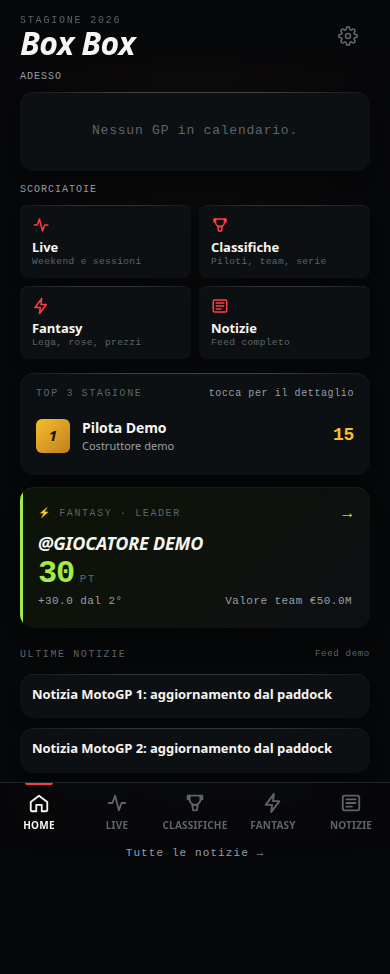
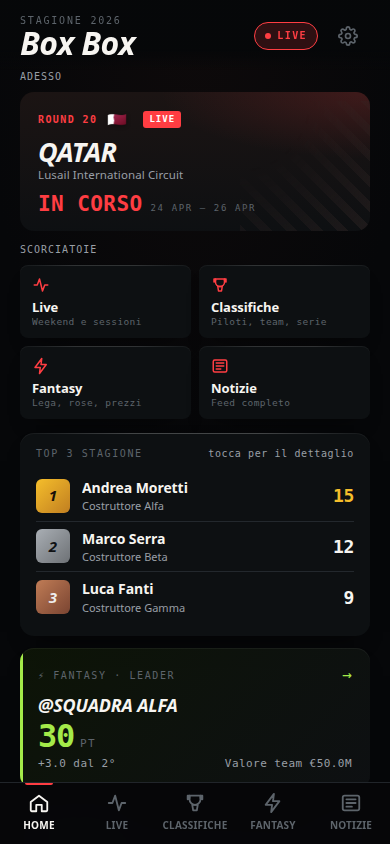
docs: anteprime con dati completi e quattro viste in piu'
Le fixture del test browser ora descrivono un weekend in corso (GP, sessioni,
tabellone), otto piloti e tre giocatori: le immagini mostrano schermate piene
invece di stati vuoti con "Nessun GP in calendario".

- cattura alla dimensione del viewport: la barra di navigazione fissa non
  finisce piu' a meta' immagine;
- aggiunte classifica e impostazioni, desktop e mobile: sedici immagini;
- nomi dei piloti e delle squadre inventati e nessun nome di giocatore reale;
- fixture delle notifiche per non fotografare lo stato "bloccate" proprio di
  Chromium headless;
- README con tre anteprime e `docs/verifiche/LEGGIMI.md` che dice cosa
  contengono e come rigenerarle.

Verifica: `bash scraper/test-audit.sh` exit 0 e `node scraper/test-browser.mjs`
verde su desktop e mobile.

diff --git a/docs/verifiche/LEGGIMI.md b/docs/verifiche/LEGGIMI.md
@@ -1,0 +1,37 @@
+# Anteprime
+
+Immagini prodotte da `scraper/test-browser.mjs`, che apre il frontend vero in Chromium headless
+con dati sintetici, blocca ogni richiesta esterna e non tocca `data/`.
+
+Cosa contengono e cosa no:
+
+- i nomi dei piloti, i team e le squadre sono inventati per l'occasione;
+- non ci sono nomi dei giocatori della lega, né dati personali;
+- non ci sono dati scaricati da servizi esterni: la fixture vive dentro il test;
+- il GP, le sessioni e il tabellone sono uno scenario costruito a mano, non una gara reale.
+
+Le immagini si rigenerano con:
+
+```
+node scraper/test-browser.mjs
+```
+
+Il test richiede Playwright e un Chromium già presenti; `BOXBOX_CHROMIUM` può indicare
+l'eseguibile. Se il test passa, gli screenshot corrispondono al codice di quel commit: sono
+anch'essi un artefatto verificabile, non un ritaglio fatto a mano.
+
+## Elenco
+
+| File | Vista |
+| --- | --- |
+| `home-*.png` | Home: GP in corso, scorciatoie, top 3 di stagione, leader fantasy, ultime notizie |
+| `live-*.png` | Live: intestazione del weekend, tabellone della sessione, programma |
+| `classifiche-*.png` | Classifiche: piloti con punti e distacco |
+| `pilota-*.png` | Dettaglio pilota: andamento per GP, storico prezzo |
+| `fantasy-*.png` | Fantasy: andamento per GP, prezzi e valore |
+| `gp-*.png` | Dettaglio di un GP scelto dalla scheda Fantasy |
+| `notizie-*.png` | Notizie |
+| `impostazioni-*.png` | Impostazioni e link utili |
+
+Il suffisso è `-desktop` (1440×1000) o `-mobile` (390×844). Le immagini sono catturate alla
+dimensione del viewport, non a pagina intera: mostrano quello che si vede aprendo la schermata.

diff --git a/README.md b/README.md
@@ -31,6 +31,15 @@ pubbliche/autenticate di `fantasy.motogp.com`: rispetta i loro Termini di Serviz
 - Notifiche in-app (Notification API) durante i weekend di gara
 - PWA installabile, funzionamento offline via service worker
 
+## Anteprime
+
+Immagini generate da `scraper/test-browser.mjs` con dati sintetici: nessun nome di giocatore reale,
+nessuna richiesta a servizi esterni. Altre viste in `docs/verifiche/`.
+
+| Home | Live | Fantasy |
+| --- | --- | --- |
+| <img src="docs/verifiche/home-mobile.png" width="250" alt="Home: GP in corso, top 3 di stagione, leader fantasy"> | <img src="docs/verifiche/live-mobile.png" width="250" alt="Live: sessioni del weekend e tabellone della sessione in corso"> | <img src="docs/verifiche/fantasy-mobile.png" width="250" alt="Fantasy: andamento punti per GP e prezzi dei piloti"> |
+
 ## Stack
 
 - **Frontend**: HTML/CSS/JS vanilla, **ES module nativi** (`<script type="module">`,
